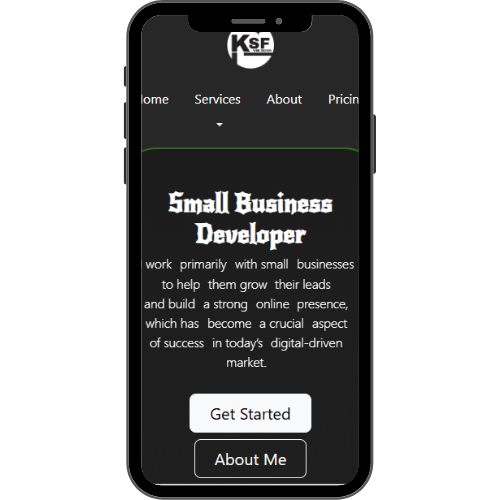
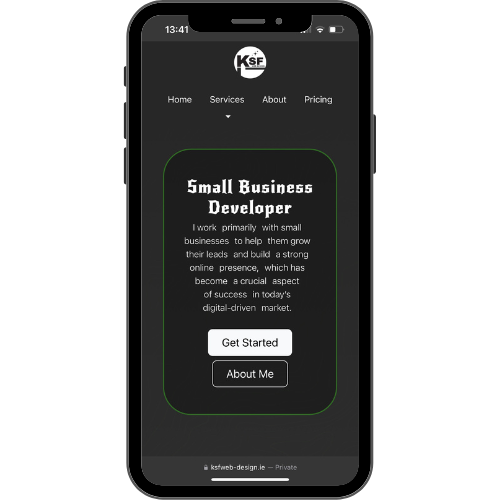
1.0, finished product page and added some quick fixes

diff --git a/public/styles/main.css b/public/styles/main.css
@@ -11,6 +11,26 @@
     font-style: normal;
 }
 
+.germania-one-regular {
+    font-family: "Germania One", serif!important;
+    font-weight: 400;
+    font-style: normal;
+  }
+  
+.aoboshi-one-regular {
+    font-family: "Aoboshi One", serif!important;
+    font-weight: 400;
+    font-style: normal;
+}
+  
+
+.faculty-glyphic-regular {
+    font-family: "Faculty Glyphic", serif!important;
+    font-weight: 400;
+    font-style: normal;
+}
+  
+
 .roboto-flex-font {
     font-family: "Roboto Flex", serif!important;
     font-optical-sizing: auto;
@@ -161,6 +181,13 @@ main{
     color: rgba(255, 255, 255, 0.226);
     transform: rotateX(180deg);
     transform: rotateZ(180deg);
+}
+
+.hoverEffect{
+    transition: transform 0.4s ease;
+}
+.hoverEffect:hover{
+    transform: scale(1.05)!important;
 }
 
 .project-card-links{
@@ -336,125 +363,135 @@ These were for background icons. Not sure if I wanna use these
     width: 330px!important;
 }
 
+.divider{
+    width: 100%;
+    background-color: #2f6d23;
+    height: 5px;
+}
+
+#phone{
+    animation: upAndDown 10s ease-in-out infinite;
+}
+
 
 /*Animations added to hero text*/
 #I-work{
     opacity: 0%;
     animation: heroText 1s ease-in-out 0.6s forwards;
     transform: scale(0);
-    margin-right: 10px;
+    margin-right: 7px;
     margin-bottom: 5px;
 }
 #primarily{
     opacity: 0%;
     animation: heroText 1s ease-in-out 0.8s forwards;
     transform: scale(0);
-    margin-right: 10px;
+    margin-right: 7px;
     margin-bottom: 5px;
 }
 #with-small{
     opacity: 0%;
     animation: heroText 1s ease-in-out 1s forwards;
     transform: scale(0);
-    margin-right: 10px;
+    margin-right: 7px;
     margin-bottom: 5px;
 }
 #businesses{
     opacity: 0%;
     animation: heroText 1s ease-in-out 1.2s forwards;
     transform: scale(0);
-    margin-right: 10px;
+    margin-right: 7px;
     margin-bottom: 5px;
 }
 #to-help{
     opacity: 0%;
     animation: heroText 1s ease-in-out 1.4s forwards;
     transform: scale(0);
-    margin-right: 10px;
+    margin-right: 7px;
     margin-bottom: 5px;
 }
 #them-grow{
     opacity: 0%;
     animation: heroText 1s ease-in-out 1.6s forwards;
     transform: scale(0);
-    margin-right: 10px;
+    margin-right: 7px;
     margin-bottom: 5px;
 }
 #their-leads{
     opacity: 0%;
     animation: heroText 1s ease-in-out 1.8s forwards;
     transform: scale(0);
-    margin-right: 10px;
+    margin-right: 7px;
     margin-bottom: 5px;
 }
 #and-build{
     opacity: 0%;
     animation: heroText 1s ease-in-out 2s forwards;
     transform: scale(0);
-    margin-right: 10px;
+    margin-right: 7px;
     margin-bottom: 5px;
 }
 #a-strong{
     opacity: 0%;
     animation: heroText 1s ease-in-out 2.2s forwards;
     transform: scale(0);
-    margin-right: 10px;
+    margin-right: 7px;
     margin-bottom: 5px;
 }
 #online{
     opacity: 0%;
     animation: heroText 1s ease-in-out 2.4s forwards;
     transform: scale(0);
-    margin-right: 10px;
+    margin-right: 7px;
     margin-bottom: 5px;
 }
 #presence{
     opacity: 0%;
     animation: heroText 1s ease-in-out 2.6s forwards;
     transform: scale(0);
-    margin-right: 10px;
+    margin-right: 7px;
     margin-bottom: 5px;
 }
 #which-has{
     opacity: 0%;
     animation: heroText 1s ease-in-out 2.8s forwards;
     transform: scale(0);
-    margin-right: 10px;
+    margin-right: 7px;
     margin-bottom: 5px;
 }
 #become{
     opacity: 0%;
     animation: heroText 1s ease-in-out 3s forwards;
     transform: scale(0);
-    margin-right: 10px;
+    margin-right: 7px;
     margin-bottom: 5px;
 }
 #a-crucial{
     opacity: 0%;
     animation: heroText 1s ease-in-out 3.2s forwards;
     transform: scale(0);
-    margin-right: 10px;
+    margin-right: 7px;
     margin-bottom: 5px;
 }
 #aspect{
     opacity: 0%;
     animation: heroText 1s ease-in-out 3.4s forwards;
     transform: scale(0);
-    margin-right: 10px;
+    margin-right: 7px;
     margin-bottom: 5px;
 }
 #of-success{
     opacity: 0%;
     animation: heroText 1s ease-in-out 3.6s forwards;
     transform: scale(0);
-    margin-right: 10px;
+    margin-right: 7px;
     margin-bottom: 5px;
 }
 #in-todays{
     opacity: 0%;
     animation: heroText 1s ease-in-out 3.8s forwards;
     transform: scale(0);
-    margin-right: 10px;
+    margin-right: 7px;
     margin-bottom: 10px;
     margin-bottom: 5px;
 }
@@ -462,14 +499,13 @@ These were for background icons. Not sure if I wanna use these
     opacity: 0%;
     animation: heroText 1s ease-in-out 4s forwards;
     transform: scale(0);
-    margin-right: 10px;
+    margin-right: 7px;
     margin-bottom: 5px;
 }
 #market{
     opacity: 0%;
     animation: heroText 1s ease-in-out 4.2s forwards;
     transform: scale(0);
-    margin-right: 10px;
     margin-bottom: 5px;
 }
 
@@ -587,6 +623,10 @@ These were for background icons. Not sure if I wanna use these
         margin-top: 100px;
     }
 
+    #phone{
+        left: 60%!important;
+    }
+
     .showing2{
         display: flex!important;
         margin-block: -100px!important;
@@ -637,6 +677,13 @@ These were for background icons. Not sure if I wanna use these
         height: 80px;
     }
 
+    #phone{
+        left: 60%!important;
+        top: 40%!important;
+        width: 200px!important;
+
+    }
+
 }
 
 @media (max-width: 576px){
@@ -648,6 +695,12 @@ These were for background icons. Not sure if I wanna use these
         margin-top: -200px;
     }
 
+    #phone{
+        left: 60%!important;
+        top: 40%!important;
+        width: 150px!important;
+
+    }
 }
 
 

diff --git a/index.js b/index.js
@@ -13,6 +13,7 @@ app.use(bodyParser.urlencoded({ extended: true }));
 //Important Values
 const API_KEY = process.env.SEND_GRID_KEY
 const SendgridSender = process.env.EMAIL
+const ReplyTo = process.env.REPLYTOEMAIL
 
 
 // Send Grid Email Function
@@ -22,6 +23,7 @@ const sendEmail = async (toEmail, subject, message) => {
     const msg = {
       to: toEmail,
       from: `${SendgridSender}`, // Verified SendGrid sender email
+      replyTo: `${ReplyTo}`,  // Replies will go here
       subject: subject,
       html: message,
     };
@@ -78,7 +80,7 @@ app.get("/fullPackage", (req, res) => {
 app.get("/webDesign", (req, res) => {
     res.render("product.ejs", {
         title: "Web Design",
-        summary: "This is best for businesses who might want to have more complex features on their website. With a backend server, I can use API's to make your website do some pretty cool things. Maybe you want to handle client bookings and send them automated emails? It's all possible with this plan. Please note, hosting and maintenance are free for the first year. After this, I charge hourly for maintenance and 20/mo for hosting.",
+        summary: "This is best for businesses who might want to have more complex features on their website. With a backend server, I can use API's to make your website do some pretty cool things. Maybe you want to handle client bookings and send them automated emails? It's all possible with this plan. Please note, hosting and maintenance are free for the first year. After this, I charge hourly for maintenance and €20/mo for hosting.",
         price: "€325",
         mo: "",
         feature1Title: "Your Business Online",
